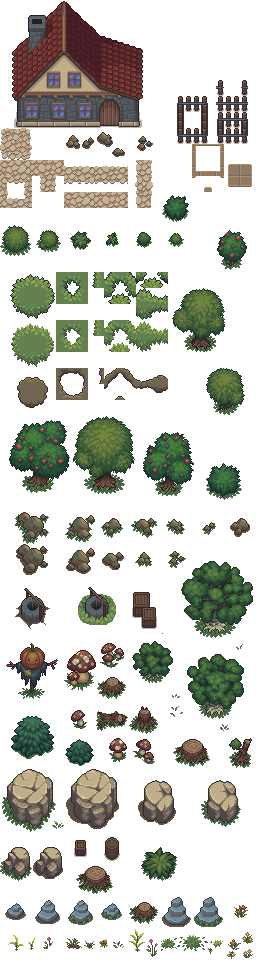
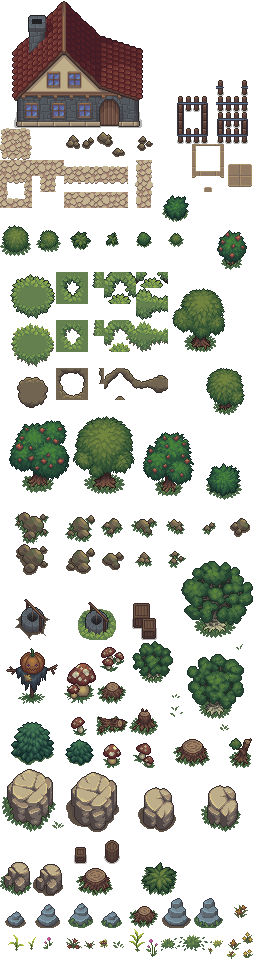
debugging collision

diff --git a/frontend/assets/exterior-export.tsx b/frontend/assets/exterior-export.tsx
@@ -31,24 +31,35 @@
    <object id="1" x="2" y="4" width="29" height="25.6364"/>
   </objectgroup>
  </tile>
+ <tile id="152">
+  <objectgroup draworder="index" id="2">
+   <object id="2" x="20.625" y="12.875" width="23.625" height="13.5"/>
+  </objectgroup>
+ </tile>
+ <tile id="154">
+  <objectgroup draworder="index" id="2">
+   <object id="1" x="21.1875" y="14.5" width="23.625" height="13.5"/>
+  </objectgroup>
+ </tile>
+ <tile id="156">
+  <objectgroup draworder="index" id="2">
+   <object id="1" x="5.125" y="5.25" width="16.625" height="15.5"/>
+   <object id="2" x="13.875" y="10" width="14" height="21.625"/>
+  </objectgroup>
+ </tile>
  <tile id="163">
   <objectgroup draworder="index" id="2">
-   <object id="1" x="5.63636" y="14.2727" width="22.3636" height="11"/>
+   <object id="1" x="5.26136" y="19.1477" width="22.3636" height="11"/>
   </objectgroup>
  </tile>
  <tile id="168">
   <objectgroup draworder="index" id="2">
-   <object id="1" x="17" y="0" width="15" height="21.5455"/>
-  </objectgroup>
- </tile>
- <tile id="169">
-  <objectgroup draworder="index" id="2">
-   <object id="1" x="-0.0454545" y="0.136341" width="15" height="21.5455"/>
+   <object id="1" x="17.0909" y="5.36364" width="30" height="21.5455"/>
   </objectgroup>
  </tile>
  <tile id="170">
   <objectgroup draworder="index" id="2">
-   <object id="1" x="2.54545" y="0.181818" width="23.6364" height="14.0909"/>
+   <object id="1" x="4.42045" y="11.3068" width="23.6364" height="16.0909"/>
   </objectgroup>
  </tile>
  <tile id="171">
@@ -58,7 +69,7 @@
  </tile>
  <tile id="178">
   <objectgroup draworder="index" id="2">
-   <object id="1" x="7" y="14.5455" width="14.1818" height="8.45455"/>
+   <object id="1" x="8.875" y="21.4205" width="14.1818" height="8.45455"/>
   </objectgroup>
  </tile>
  <tile id="179">
@@ -73,12 +84,12 @@
  </tile>
  <tile id="187">
   <objectgroup draworder="index" id="2">
-   <object id="1" x="13" y="16.1818" width="17.8182" height="6.36364"/>
+   <object id="1" x="6.75" y="21.9318" width="17.8182" height="8.36364"/>
   </objectgroup>
  </tile>
  <tile id="188">
   <objectgroup draworder="index" id="2">
-   <object id="1" x="9.90909" y="14.4545" width="15.8182" height="12.0909"/>
+   <object id="1" x="9.90909" y="16.7045" width="15.8182" height="13.2159"/>
   </objectgroup>
  </tile>
  <tile id="189">
@@ -93,77 +104,84 @@
  </tile>
  <tile id="191">
   <objectgroup draworder="index" id="2">
-   <object id="1" x="10.4545" y="16.3636" width="14.4545" height="11.8182"/>
+   <object id="1" x="9.9545" y="16.6136" width="14.4545" height="11.8182"/>
   </objectgroup>
  </tile>
  <tile id="200">
-  <objectgroup draworder="index" id="2">
-   <object id="1" x="8.36364" y="0" width="23.6364" height="23.2727"/>
+  <objectgroup draworder="index" id="3">
+   <object id="2" x="8.5" y="-0.125" width="23.375" height="14.125"/>
+   <object id="4" x="13.25" y="13.625" width="19.125" height="11.375"/>
   </objectgroup>
  </tile>
  <tile id="201">
   <objectgroup draworder="index" id="2">
-   <object id="1" x="0.1818" y="0.181832" width="20.3637" height="23.2727"/>
+   <object id="1" x="-0.375" y="0.125" width="21.75" height="6.875"/>
+   <object id="2" x="-0.375" y="6.75" width="16.375" height="10.5"/>
+   <object id="3" x="-0.25" y="17" width="9.375" height="10.125"/>
   </objectgroup>
  </tile>
  <tile id="202">
   <objectgroup draworder="index" id="2">
-   <object id="1" x="8.1818" y="1.36364e-05" width="23.6364" height="23.2727"/>
+   <object id="1" x="7" y="0.125" width="25.25" height="7.25"/>
+   <object id="2" x="10.625" y="7.25" width="22.125" height="17.5"/>
+   <object id="3" x="25.875" y="24" width="7" height="6"/>
   </objectgroup>
  </tile>
  <tile id="203">
   <objectgroup draworder="index" id="2">
-   <object id="1" x="0.181786" y="0.181832" width="20.3637" height="23.2727"/>
+   <object id="1" x="-0.875" y="-0.125" width="21.875" height="11.375"/>
+   <object id="2" x="-0.75" y="10.75" width="17.25" height="10.75"/>
+   <object id="3" x="-2" y="20.75" width="11.375" height="9.625"/>
   </objectgroup>
  </tile>
  <tile id="204">
   <objectgroup draworder="index" id="2">
-   <object id="2" x="15.0114" y="0.0625" width="16.7273" height="25.625"/>
+   <object id="2" x="15" y="0" width="16.7273" height="30.75"/>
   </objectgroup>
  </tile>
  <tile id="205">
   <objectgroup draworder="index" id="2">
-   <object id="2" x="-0.11365" y="-0.0625" width="16.7273" height="25.625"/>
+   <object id="3" x="0" y="0" width="13.8523" height="30.75"/>
   </objectgroup>
  </tile>
  <tile id="206">
   <objectgroup draworder="index" id="2">
-   <object id="1" x="15.0909" y="0.0681818" width="16.7273" height="25.625"/>
+   <object id="1" x="15" y="0" width="16.7273" height="29.125"/>
   </objectgroup>
  </tile>
  <tile id="207">
   <objectgroup draworder="index" id="2">
-   <object id="2" x="-2.73865" y="-0.0625" width="16.7273" height="25.625"/>
+   <object id="3" x="0" y="0" width="16.7273" height="29.125"/>
   </objectgroup>
  </tile>
  <tile id="210">
   <objectgroup draworder="index" id="2">
-   <object id="1" x="11.4545" y="14.3636" width="10.4545" height="10.0909"/>
+   <object id="1" x="11.3295" y="21.7386" width="10.4545" height="10.0909"/>
   </objectgroup>
  </tile>
  <tile id="211">
   <objectgroup draworder="index" id="2">
-   <object id="1" x="9.09091" y="14.0909" width="13.4545" height="13.4545"/>
+   <object id="1" x="9.34091" y="18.0909" width="13.4545" height="13.4545"/>
   </objectgroup>
  </tile>
  <tile id="216">
   <objectgroup draworder="index" id="2">
-   <object id="1" x="4.54546" y="0.227291" width="25.0909" height="15.7386"/>
+   <object id="1" x="4.54546" y="13.8523" width="25.0909" height="15.7386"/>
   </objectgroup>
  </tile>
  <tile id="217">
   <objectgroup draworder="index" id="2">
-   <object id="2" x="4.32955" y="0.0057" width="25.0909" height="15.7386"/>
+   <object id="2" x="4.32955" y="15.8807" width="25.0909" height="15.7386"/>
   </objectgroup>
  </tile>
  <tile id="218">
   <objectgroup draworder="index" id="2">
-   <object id="1" x="17.5" y="12.1818" width="14.0909" height="13.4545"/>
+   <object id="1" x="15" y="13.5568" width="17.2159" height="12.5795"/>
   </objectgroup>
  </tile>
  <tile id="219">
   <objectgroup draworder="index" id="2">
-   <object id="1" x="0" y="12.1818" width="14.0909" height="13.4545"/>
+   <object id="2" x="0" y="13.56" width="17.2159" height="12.5795"/>
   </objectgroup>
  </tile>
  <tile id="224">

diff --git a/frontend/core/src/main/java/com/isthereanyone/frontend/screens/states/RoamingState.java b/frontend/core/src/main/java/com/isthereanyone/frontend/screens/states/RoamingState.java
@@ -1,6 +1,7 @@
 package com.isthereanyone.frontend.screens.states;
 
 import com.badlogic.gdx.Gdx;
+import com.badlogic.gdx.Input;
 import com.badlogic.gdx.graphics.g2d.TextureRegion;
 import com.badlogic.gdx.graphics.glutils.ShapeRenderer;
 import com.badlogic.gdx.maps.MapLayer;
@@ -21,9 +22,12 @@ import java.util.Comparator;
 public class RoamingState implements PlayState {
     private final PlayScreen screen;
     private float deathTimer = 0f;
+    private boolean debugMode = false;
 
     private final int[] floorLayers = { 0, 1 };
+
     private final int[] wallLayers = { 3 };
+
     private final int[] foregroundLayers = { 4 };
 
     private Array<DepthObject> renderQueue;
@@ -38,6 +42,10 @@ public class RoamingState implements PlayState {
     @Override
     public void update(float delta) {
         Player player = screen.getWorld().player;
+
+        if (Gdx.input.isKeyJustPressed(Input.Keys.P)) {
+            debugMode = !debugMode;
+        }
 
         if (player.isDead) {
             handleDeath(delta, player);
@@ -54,6 +62,7 @@ public class RoamingState implements PlayState {
     @Override
     public void render() {
         screen.mapRenderer.render(floorLayers);
+        screen.mapRenderer.render(wallLayers);
 
         screen.batch.setProjectionMatrix(screen.camera.combined);
         screen.batch.begin();
@@ -62,6 +71,7 @@ public class RoamingState implements PlayState {
 
         Player player = screen.getWorld().player;
         renderQueue.add(new DepthObject(player.position.y, () -> player.render(screen.batch)));
+
         renderQueue.add(new DepthObject(screen.getWorld().ghost.getPosition().y, () -> screen.getWorld().ghost.render(screen.batch)));
 
         MapLayer detailsLayer = screen.getWorld().map.getLayers().get("Details");
@@ -71,37 +81,15 @@ public class RoamingState implements PlayState {
                     TiledMapTileMapObject tileObj = (TiledMapTileMapObject) object;
                     if (tileObj.getTile() != null) {
                         TextureRegion region = tileObj.getTile().getTextureRegion();
-                        float objectY = tileObj.getY();
-                        renderQueue.add(new DepthObject(objectY, () -> {
-                            screen.batch.draw(region, tileObj.getX(), tileObj.getY());
-                        }));
-                    }
-                }
-            }
-        }
 
-        MapLayer collisionLayer = screen.getWorld().map.getLayers().get("Collidables");
+                        float realX = tileObj.getX();
+                        float realY = tileObj.getY();
 
-        if (collisionLayer instanceof com.badlogic.gdx.maps.tiled.TiledMapTileLayer) {
-            com.badlogic.gdx.maps.tiled.TiledMapTileLayer tileLayer = (com.badlogic.gdx.maps.tiled.TiledMapTileLayer) collisionLayer;
+                        float offset = 15.0f;
+                        float sortY = realY + offset;
 
-            int colWidth = tileLayer.getWidth();
-            int colHeight = tileLayer.getHeight();
-            float tileW = tileLayer.getTileWidth();
-            float tileH = tileLayer.getTileHeight();
-
-            for (int x = 0; x < colWidth; x++) {
-                for (int y = 0; y < colHeight; y++) {
-                    com.badlogic.gdx.maps.tiled.TiledMapTileLayer.Cell cell = tileLayer.getCell(x, y);
-
-                    if (cell != null && cell.getTile() != null) {
-                        TextureRegion region = cell.getTile().getTextureRegion();
-
-                        float worldX = x * tileW;
-                        float worldY = y * tileH;
-
-                        renderQueue.add(new DepthObject(worldY, () -> {
-                            screen.batch.draw(region, worldX, worldY);
+                        renderQueue.add(new DepthObject(sortY, () -> {
+                            screen.batch.draw(region, realX, realY);
                         }));
                     }
                 }
@@ -117,6 +105,10 @@ public class RoamingState implements PlayState {
         screen.batch.end();
 
         screen.mapRenderer.render(foregroundLayers);
+
+        if (debugMode) {
+            renderDebugCollision();
+        }
 
         renderUIAndLighting();
     }
@@ -175,6 +167,7 @@ public class RoamingState implements PlayState {
         if (player.position.y < 0) player.position.y = 0;
         if (player.position.y > mapSize - 32) player.position.y = mapSize - 32;
 
+        // Collision Check
         Rectangle playerRect = new Rectangle(player.position.x + 10, player.position.y, 14, 10);
         for (Rectangle wall : screen.getWorld().walls) {
             if (playerRect.overlaps(wall)) {
@@ -195,6 +188,16 @@ public class RoamingState implements PlayState {
             screen.getWorld().ghost.confirmDamageDealt();
         }
         AnimatedTiledMapTile.updateAnimationBaseTime();
+    }
+
+    private void renderDebugCollision() {
+        screen.shapeRenderer.setProjectionMatrix(screen.camera.combined);
+        screen.shapeRenderer.begin(ShapeRenderer.ShapeType.Line);
+        screen.shapeRenderer.setColor(1, 0, 0, 1);
+        for (Rectangle wall : screen.getWorld().walls) {
+            screen.shapeRenderer.rect(wall.x, wall.y, wall.width, wall.height);
+        }
+        screen.shapeRenderer.end();
     }
 
     private void renderUIAndLighting() {
